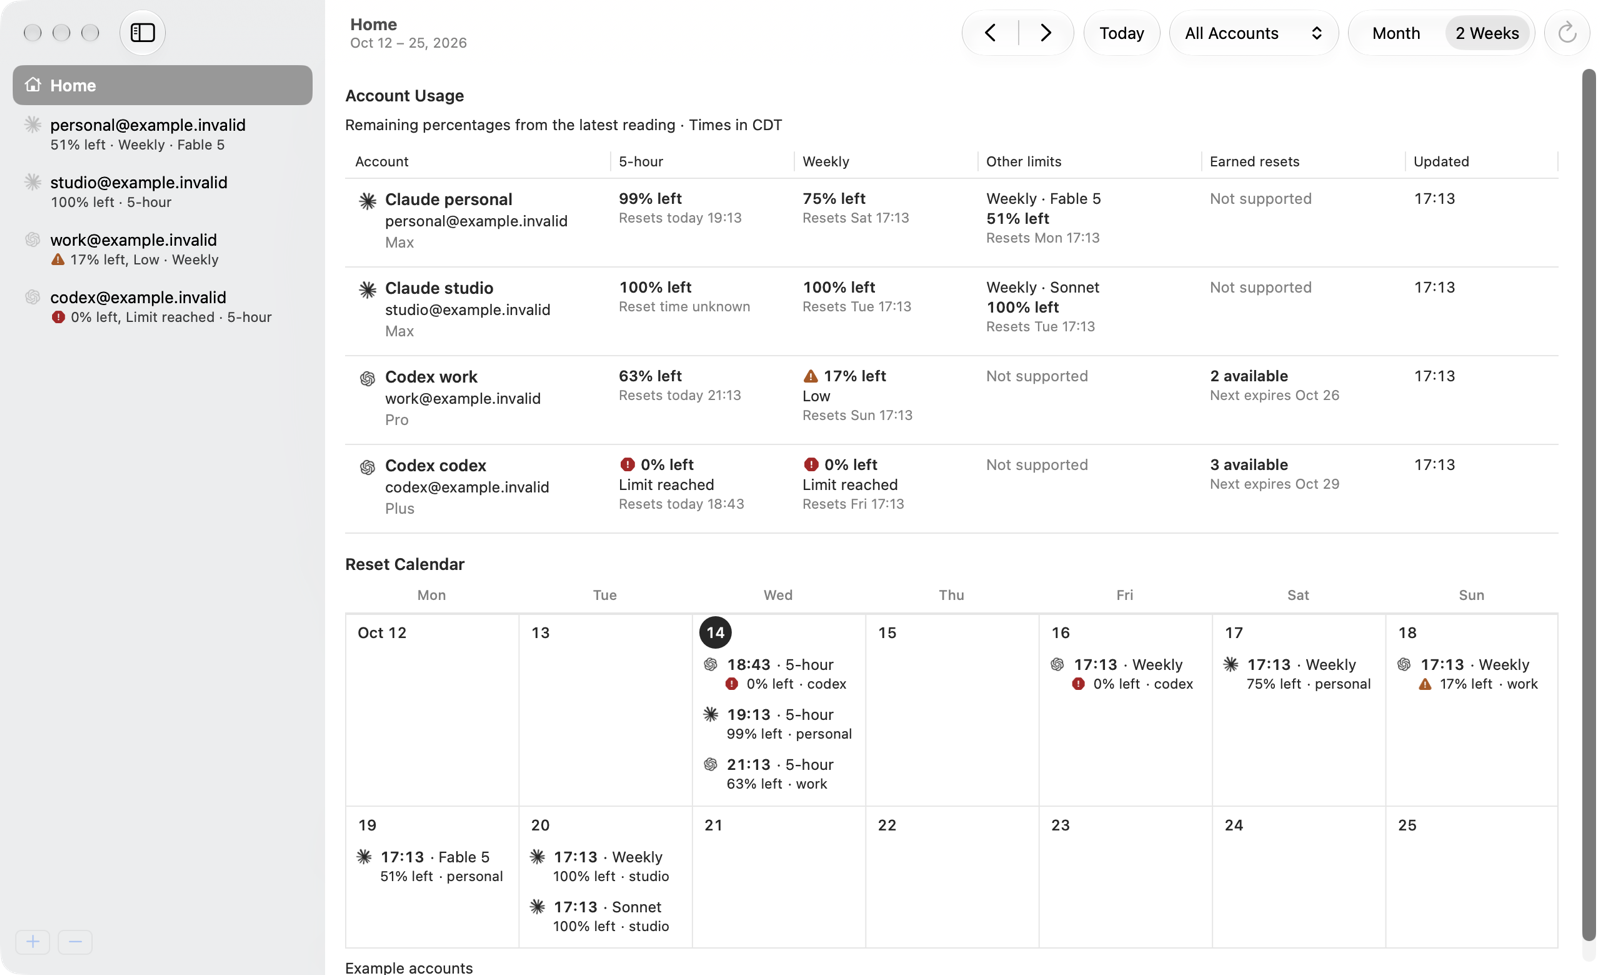
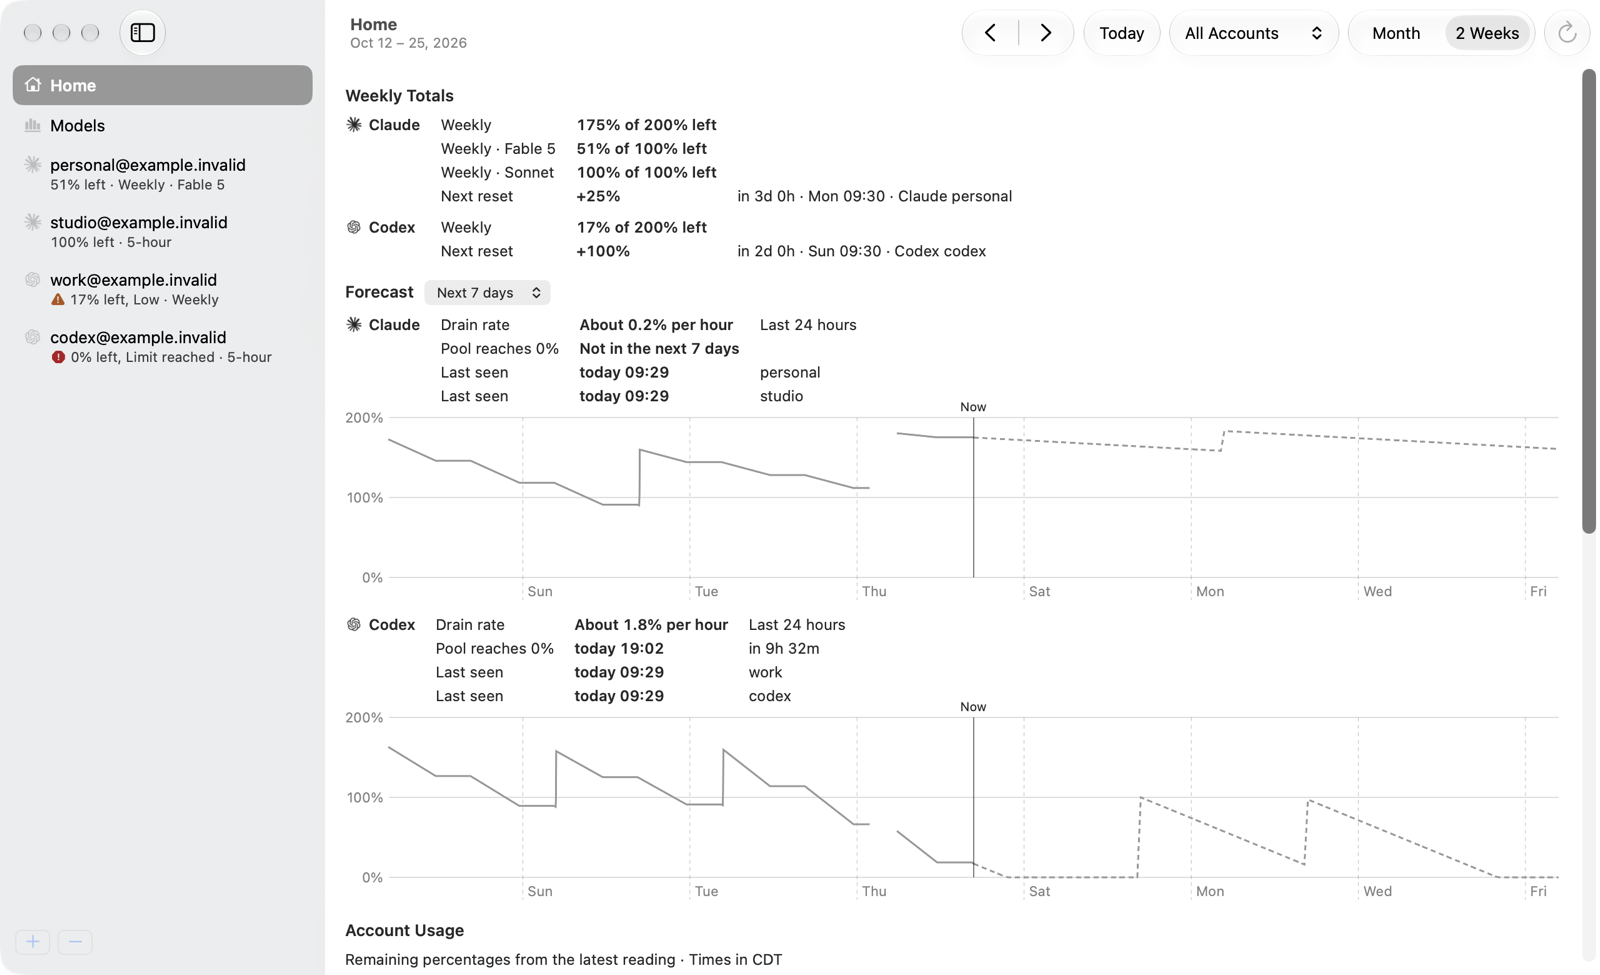
docs: show the forecast and Models page in the readme (#39)

diff --git a/README.md b/README.md
@@ -14,7 +14,7 @@
   macOS 14 or later · Apple silicon and Intel
 </p>
 
-![Home: an account table with remaining quota and reset times, above a two-week reset calendar](assets/screenshots/home.png)
+![Home: weekly totals across accounts and a forecast chart of remaining weekly quota, with the account list in the sidebar](assets/screenshots/home.png)
 
 ## What it does
 
@@ -33,6 +33,8 @@ It only reads usage. It never buys credits, changes plans, or sends AI requests 
 ## Your usage history
 
 The forecast and the Models page come from a history the app keeps on your Mac. Nothing in it is uploaded.
+
+![The Models page: per-model bars for requests, output speed, steps per turn, thinking share, parallel tool calls, and shell command habits](assets/screenshots/models.png)
 
 - **What it reads.** Claude Code logs in `~/.claude/projects` and Codex logs in `~/.codex/sessions` and `~/.codex/archived_sessions`, including compressed `.jsonl.zst` files. It reads them in the background after each refresh and skips files that have not changed. Codex logs also fill in earlier Codex quota readings for the account they belong to.
 - **What it stores.** Derived facts only: quota readings over time, and for each model response its model, time, and token counts. For each shell command it keeps the length, line count, a few categories (search program, pipe into head or tail, git status or commit, inline script language and purpose), and the program names with every argument removed, such as `grep | head`. A project is a salted hash of its folder path.
